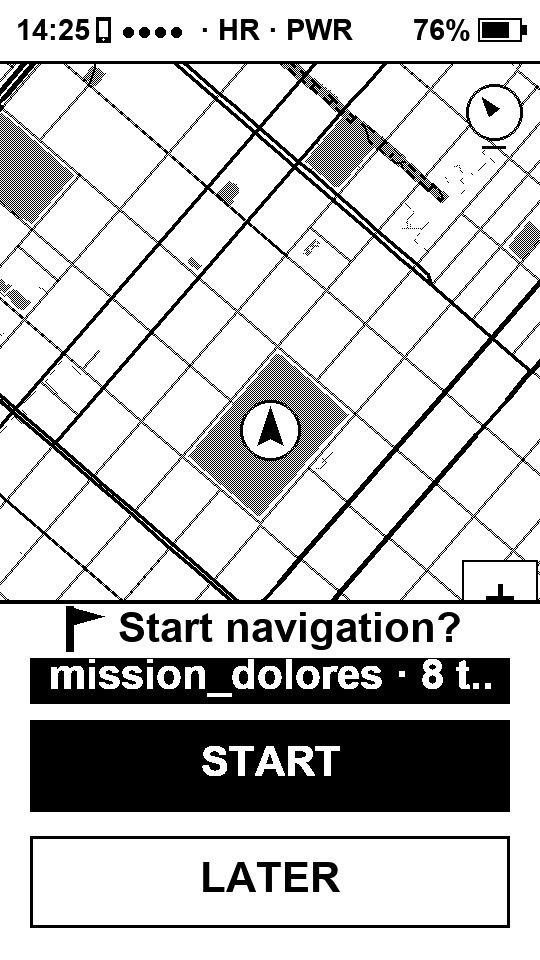
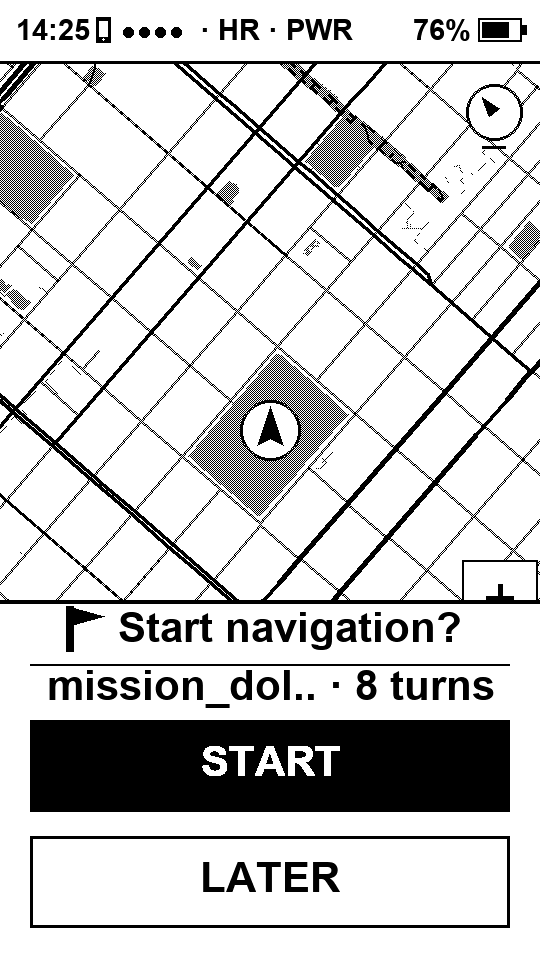
Nav UI: fix the turn arrows and calm the destination line
Turn arrows — the left one drew its head detached from the body. EpdRect.width
is UNSIGNED, and the horizontal arm was drawn as {ax, y, dir * 30, 8} with
dir = -1 for a left turn, so the width wrapped to a huge value and the arm never
landed where it should. Right turns (dir = +1) were unaffected, which is why
only the left one looked broken.

Rebuilt both arrows to always pass a positive width and move the origin instead,
with the arm extended back through the stem's centre so the inside of the elbow
is square, and the head's base sitting ON the end of the arm so the triangle and
body are always joined. Same treatment for the straight-ahead arrow, whose head
and stem now overlap rather than merely touching.

Destination — the route name was white-on-black in a solid full-width band. On
an otherwise white sheet that slab was the heaviest thing on screen: it pulled
the eye away from START/LATER and read as a warning rather than information.
Now black-on-white under a thin rule, which separates it just as clearly without
shouting and matches how the rest of the UI presents content.

Two layout details the preview render caught: the sheet only has ~120 px between
its top and the START button, so name and turn count share one line (stacked,
they collided with the button); and the name is fitted to the space left after
the turn count rather than fitting the whole string, so a long route name
shortens to "mission_dol.. · 8 turns" instead of truncating the count to
"8 t..".
[…]

Changed region(s): [[0.0296, 0.6875, 0.9481, 0.75]]

diff --git a/src/ui_render.cpp b/src/ui_render.cpp
@@ -820,20 +820,41 @@ void ui_render_nav_prompt(const char* routeName, int turns, uint8_t* fb) {
 
     ui::text(&ArialBold_20, 118, kPowerSheet.y + 42, "Start navigation?", fb);
 
-    // Route name + turn count in an inverted (black) band with breathing room
-    // above and below — reads much darker than the old light-grey caption.
+    // Destination: the route name set as the main line, with the turn count as
+    // a quieter line beneath it.
+    //
+    // This used to be white-on-black in a solid inverted band. On a sheet that
+    // is otherwise white, a full-width slab of black is the heaviest thing on
+    // screen — it pulled the eye away from the START/LATER buttons and read as
+    // a warning rather than as information. Black-on-white with a rule above it
+    // gives the same separation with none of the shouting, and it matches how
+    // the rest of the UI presents content.
     char name[48];
     snprintf(name, sizeof(name), "%s", routeName);
     size_t nl = strlen(name);   // drop a trailing ".gpx" for a cleaner label
     if (nl > 4 && strcmp(name + nl - 4, ".gpx") == 0) name[nl - 4] = 0;
-    char sub[64];
-    snprintf(sub, sizeof(sub), "%s · %d turns", name, turns);
-    char fitted[64];
-    fitText(&ArialBold_20, sub, 480 - 28, fitted, sizeof(fitted));
-    EpdRect band = {30, kPowerSheet.y + 58, 480, 46};
-    epd_fill_rect(band, 0x00, fb);
-    ui::text(&ArialBold_20, band.x + band.width / 2, band.y + band.height / 2 + 8,
-             fitted, fb, EPD_DRAW_ALIGN_CENTER, 0xFF);
+
+    // Only ~120 px between the sheet top (600) and the START button (720), so
+    // this is one line, not two — a stacked name + turn count collided with the
+    // button.
+    const int bandX = 30, bandW = 480;
+    const int ruleY = kPowerSheet.y + 64;
+    epd_fill_rect({bandX, ruleY, bandW, 2}, 0x00, fb);
+
+    // Fit the NAME to whatever is left after the turn count, rather than
+    // fitting the whole string — otherwise a long route name eats the count and
+    // it truncates to something like "8 t..", which is worse than a shortened
+    // name.
+    char tail[24];
+    snprintf(tail, sizeof(tail), " · %d turns", turns);
+    const int tailW = ui::textWidth(&ArialBold_20, tail);
+    char fittedName[64];
+    fitText(&ArialBold_20, name, bandW - 28 - tailW, fittedName,
+            sizeof(fittedName));
+    char sub[80];
+    snprintf(sub, sizeof(sub), "%s%s", fittedName, tail);
+    ui::text(&ArialBold_20, bandX + bandW / 2, ruleY + 36, sub, fb,
+             EPD_DRAW_ALIGN_CENTER);
 
     epd_fill_rect({kPowerShutdown.x, kPowerShutdown.y, kPowerShutdown.width,
                    kPowerShutdown.height}, 0x00, fb);
@@ -862,16 +883,45 @@ void ui_render_nav_banner(const char* instruction, float distanceM,
     bool right = strstr(instruction, "right") || strstr(instruction, "Right");
     int ax = 60, ay = top + 60;
     if (left || right) {
-        int dir = left ? -1 : 1;
-        // shaft up, head turning left/right
-        epd_fill_rect({ax - 4, ay - 4, 8, 34}, 0xFF, fb);
-        epd_fill_rect({ax, ay - 4, dir * 30, 8}, 0xFF, fb);
-        int hx = ax + dir * 30;
-        epd_fill_triangle(hx + dir * 16, ay, hx, ay - 14, hx, ay + 14, 0xFF, fb);
+        // Turn arrow: a stem rising from the bottom, an elbow, and a head
+        // pointing the way to turn.
+        //
+        // EpdRect.width is UNSIGNED. The previous version drew the horizontal
+        // arm as {ax, y, dir * 30, 8} with dir = -1 for a left turn, so the
+        // width wrapped to a huge value and the arm never rendered where it
+        // should — which is why the left arrow's head floated away from the
+        // body while the right one looked fine. Always pass a positive width
+        // and move the origin instead.
+        const int dir = left ? -1 : 1;
+        const int stemW = 10;         // stroke weight, shared by stem and arm
+        const int stemBottom = ay + 30;
+        const int armLen = 30;        // elbow -> base of the head
+        const int headLen = 18, headHalf = 15;
+
+        // Vertical stem, from the elbow down. Starts at the arm's top edge so
+        // the two overlap and read as one continuous stroke.
+        epd_fill_rect({ax - stemW / 2, ay - stemW / 2,
+                       stemW, stemBottom - (ay - stemW / 2)}, 0xFF, fb);
+
+        // Horizontal arm out to the head. Extend it back through the stem's
+        // centre so the inside of the elbow is square rather than notched.
+        const int armX = left ? ax - armLen : ax - stemW / 2;
+        const int armW = armLen + stemW / 2;
+        epd_fill_rect({armX, ay - stemW / 2, armW, stemW}, 0xFF, fb);
+
+        // Head. Its base sits ON the end of the arm (not beyond it), so the
+        // triangle and the body are always joined.
+        const int baseX = ax + dir * armLen;
+        epd_fill_triangle(baseX + dir * headLen, ay,
+                          baseX, ay - headHalf,
+                          baseX, ay + headHalf, 0xFF, fb);
     } else {
-        // straight-ahead chevron
-        epd_fill_triangle(ax, ay - 18, ax - 16, ay + 8, ax + 16, ay + 8, 0xFF, fb);
-        epd_fill_rect({ax - 5, ay + 2, 10, 26}, 0xFF, fb);
+        // Straight ahead: head on top of a stem, overlapping so they join.
+        const int stemW = 10, headHalf = 17, headH = 20;
+        epd_fill_rect({ax - stemW / 2, ay - 6, stemW, 34}, 0xFF, fb);
+        epd_fill_triangle(ax, ay - 6 - headH,
+                          ax - headHalf, ay - 4,
+                          ax + headHalf, ay - 4, 0xFF, fb);
     }
 
     char d[16];
